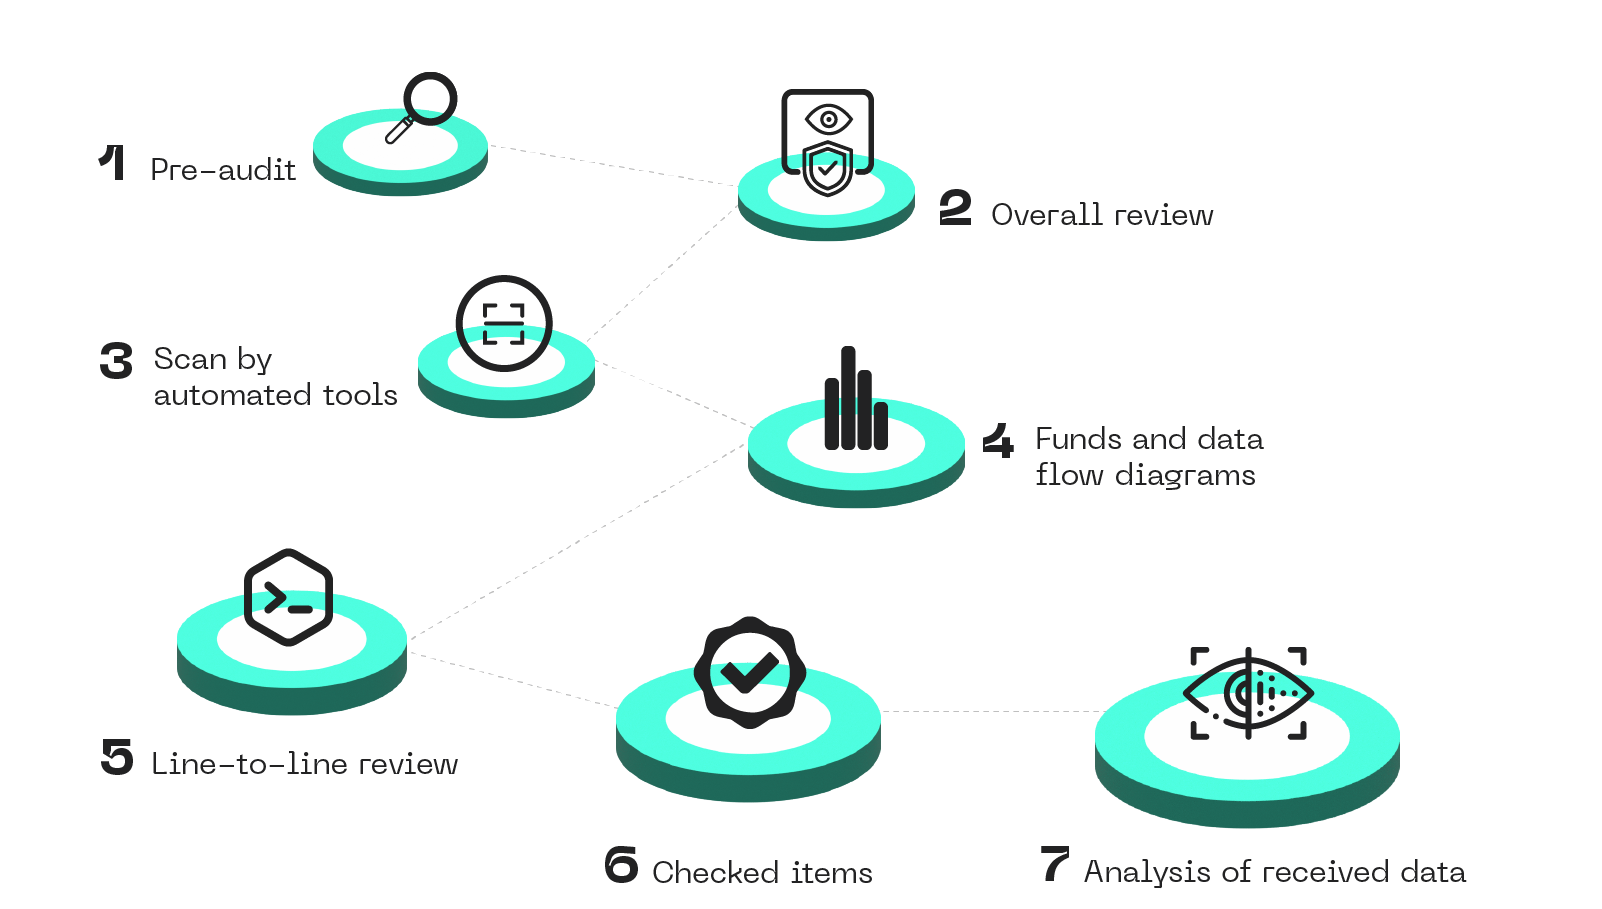
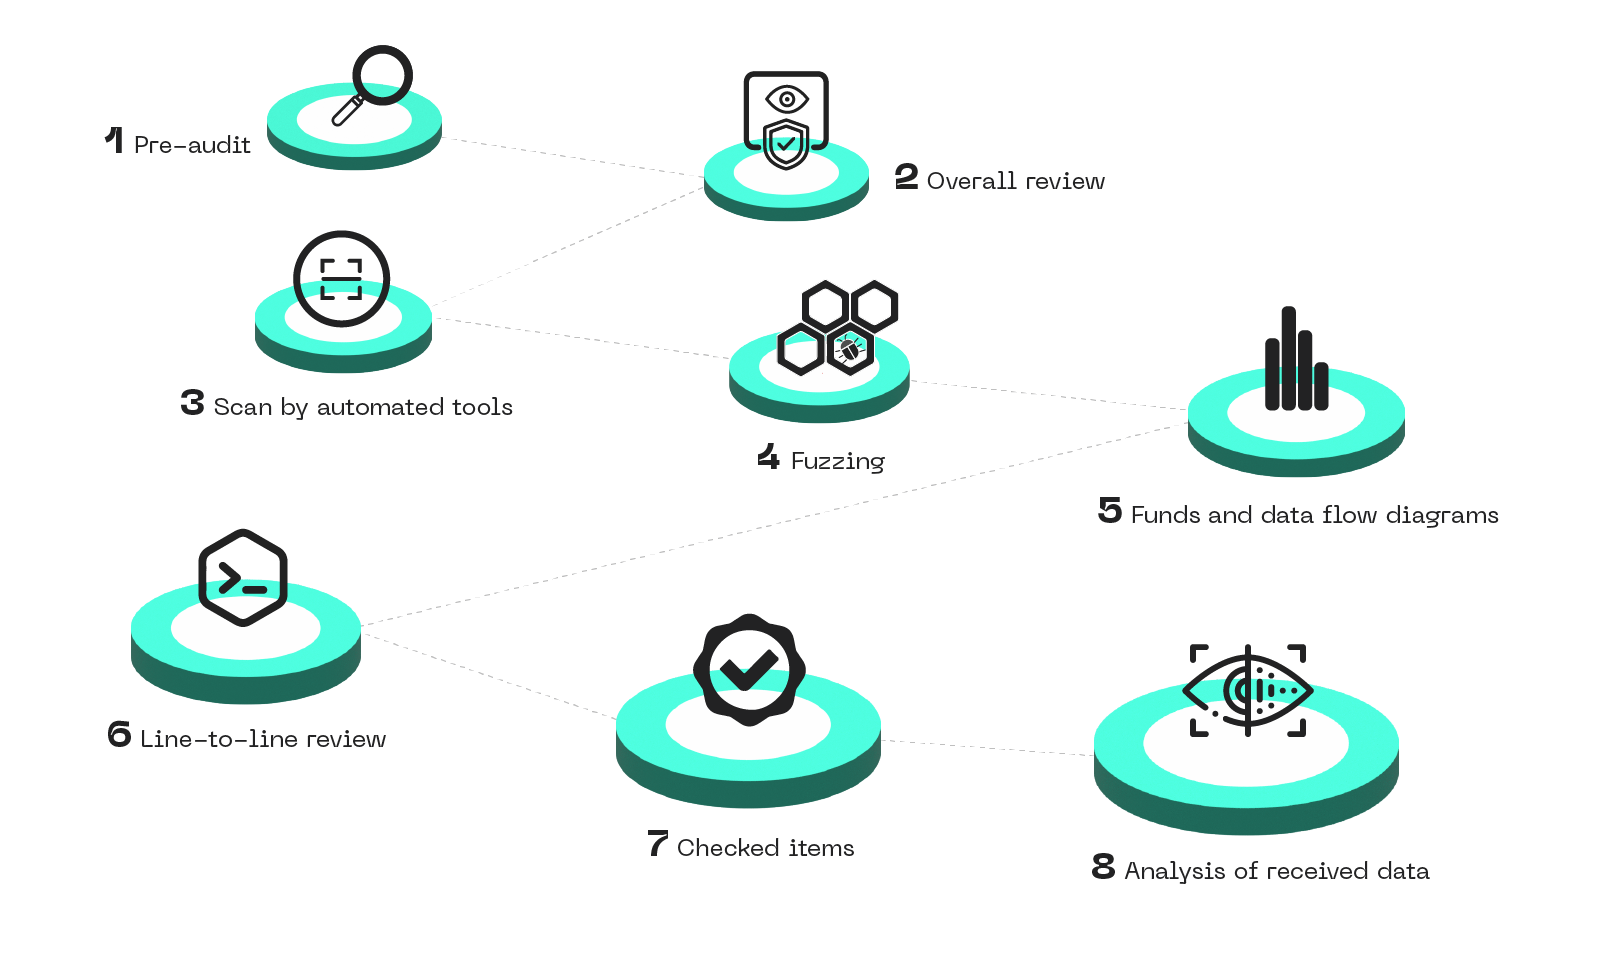
fizing images titles and sizes

diff --git a/smart-contracts.md b/smart-contracts.md
@@ -91,7 +91,7 @@ Smart Contracts Audit and Analysis process consists of the following phases:
 
 <br />
 
-![Audit Phases](./images/sc-phases.png "Audit Phases")
+<img src="./images/sc-phases.png" alt="Audit Phases" width="1000"/>
 
 ## Preparations for Smart Contracts Audit and Analysis
 ### Why are preparations so important?
@@ -144,7 +144,7 @@ We strongly recommend following the official code style guides and formatting yo
 ## Code review and analysis
 Code review and analysis is performed by lead and assistant auditors across the whole process. Additional quality reviews are performed by an expert auditor to verify that all good security practices were performed during the workflow. All steps of this process:
 
-![Code review and analysis](./images/code-analysis.png "Code review and analysis")
+<img src="./images/code-analysis.png" alt="Code review and analysis" width="1000"/>
 
 ### Pre-audit
 The purpose of the pre-audit phase is to help customers understand how their project is being prepared for the audit and identify any areas that need improvement. Depending on the audit timeline, improvements can be made either before the actual audit or during the audit. 
@@ -181,9 +181,7 @@ Invariant testing ensures that certain conditions or properties (invariants) of 
 #### Why Fuzzing is Needed:
 Traditional testing methods often struggle to identify edge cases and unforeseen scenarios; this is where fuzzing shines. By injecting random or invalid data into the contract, fuzzing explores uncharted territories and exposes vulnerabilities that might otherwise remain hidden. Think of it as a stress test, pushing the contract beyond its expected boundaries to discover potential points of failure. This helps ensure that the contract behaves as expected under all possible conditions, ultimately enhancing the overall security and reliability of the smart contract.
 
-#### How Invariant Testing and Fuzzing Improve Audit Quality:
-
-![Code review and analysis](./images/fuzzing.png "Code review and analysis")
+<img src="./images/fuzzing.png" alt="Fuzzing" width="1000"/>
 
 #### Types of Fuzzing:
 
@@ -256,7 +254,9 @@ After all fixes are validated, a final report is provided to the customer.
 ## Issue Status
 During the auditing, an issue can have one of the following statuses:
 
-![Issue Status](./images/issue-status.png "Issue Status")
+<img src="./images/issue-status.png" alt="Issue Status" width="1000"/>
+
+<br />
 
 # Vulnerabilities severity formula
 ### [Hacken OÜ - Severity Formula Standart](https://github.com/hknio/severity-formula/blob/main/README.md)
